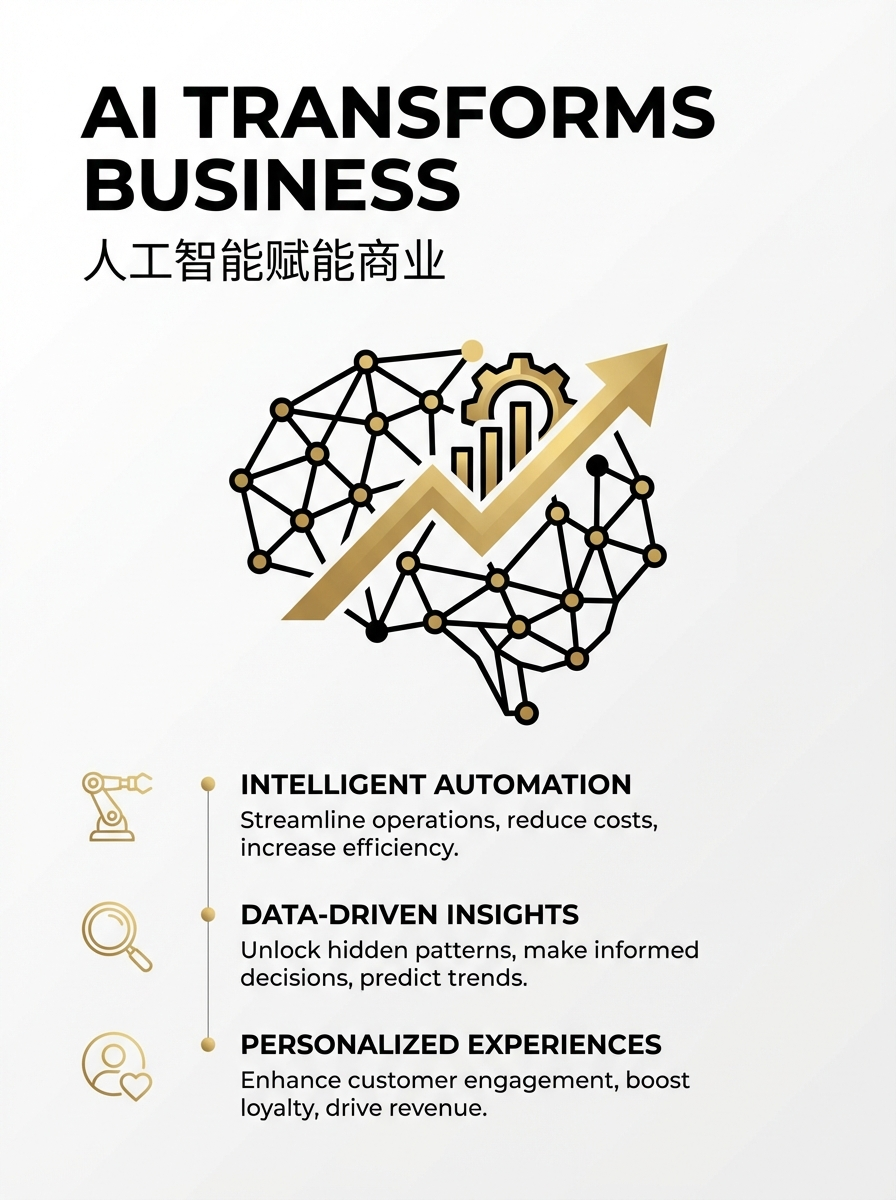
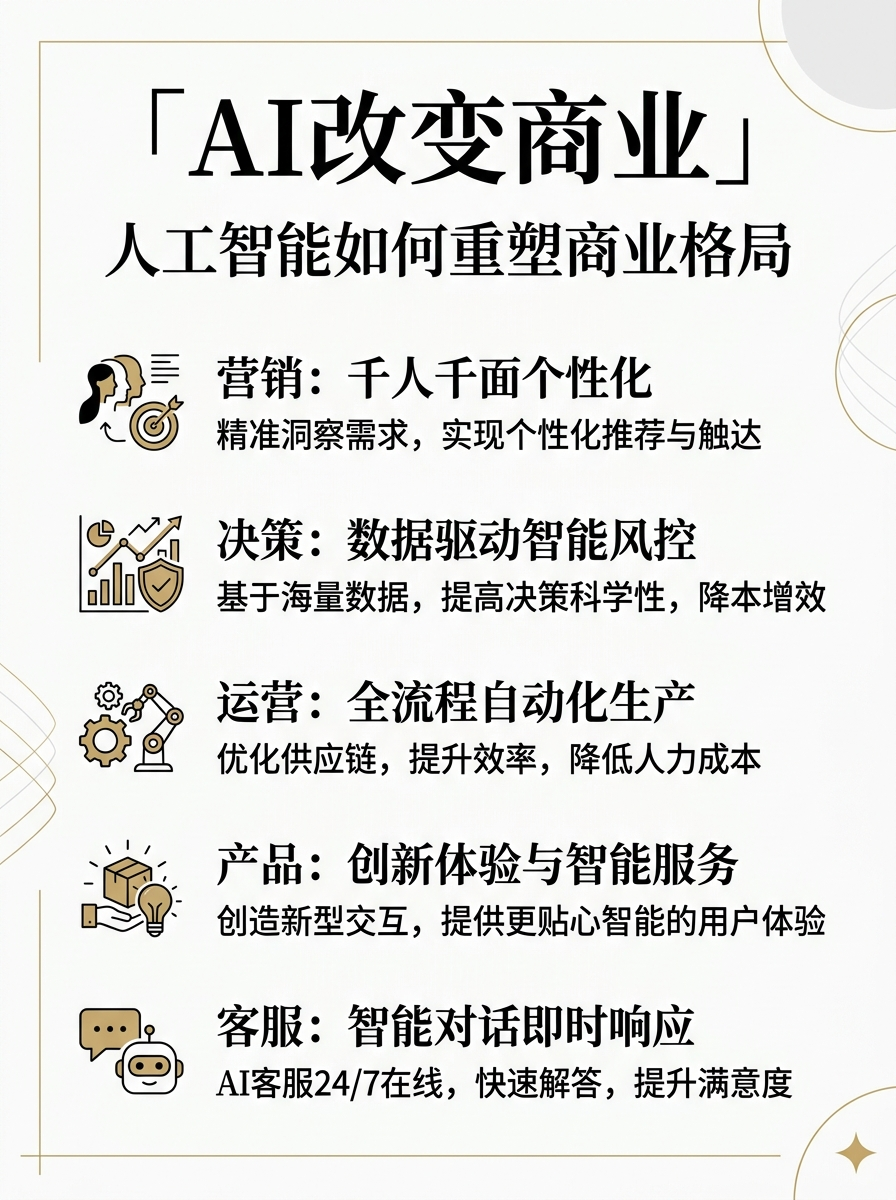
Add model routing: Pro for visual impact, Flash for Chinese text precision
- Replace minimal/tuisheng samples with Flash-rendered versions
- Add model selection rules to SKILL.md Section 5.7
- Chinese text enhancement prompt for Flash model

diff --git a/SKILL.md b/SKILL.md
@@ -412,6 +412,27 @@ Auto-detection rules:
 
 所有图片使用相同 Session ID，确保风格一致。
 
+#### Model Selection（模型路由）
+
+| 场景 | 模型 | 原因 |
+|------|------|------|
+| 封面、概念图、氛围图 | `gemini-3-pro-image-preview` (Pro) | 视觉冲击力强，画面质量高 |
+| 文字密集的信息图/知识卡 | `gemini-3.1-flash-image-preview` (Flash) | 中文渲染精准，字体不扭曲 |
+| 三段拼接的 panel | `gemini-3.1-flash-image-preview` (Flash) | 每 panel 都有文字，需要清晰 |
+
+**自动判断规则**：
+- 图中文字 ≤ 20 字（封面/概念图）→ Pro
+- 图中文字 > 20 字（信息图/知识卡）→ Flash
+- `--model` flag 可手动覆盖
+
+**中文渲染强化 prompt**（Flash 模型时追加）：
+```
+IMPORTANT: All Chinese characters must be sharp, clear and correctly
+rendered with proper stroke structure. Use bold serif (Song/Ming) font
+for Chinese titles, clean sans-serif for body text.
+```
+
+
 ---
 
 ## 6. Mode B — Precision Text Layout
